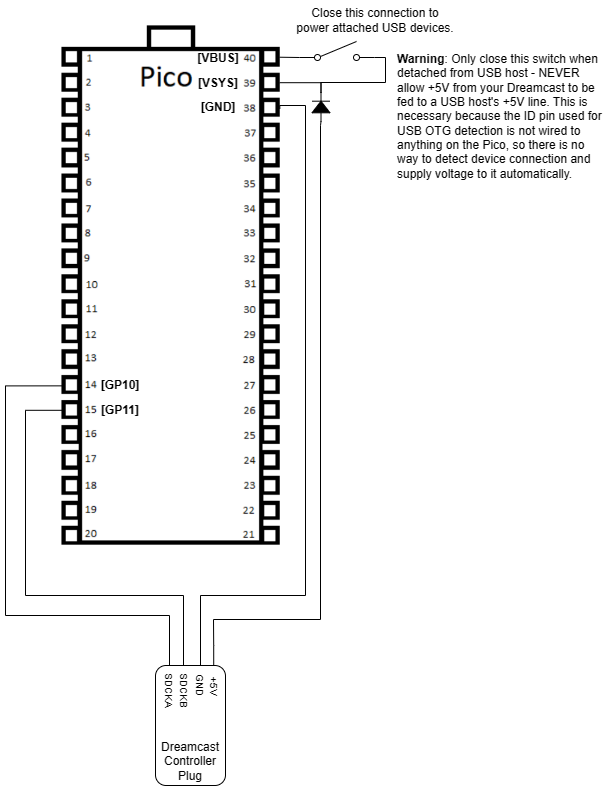
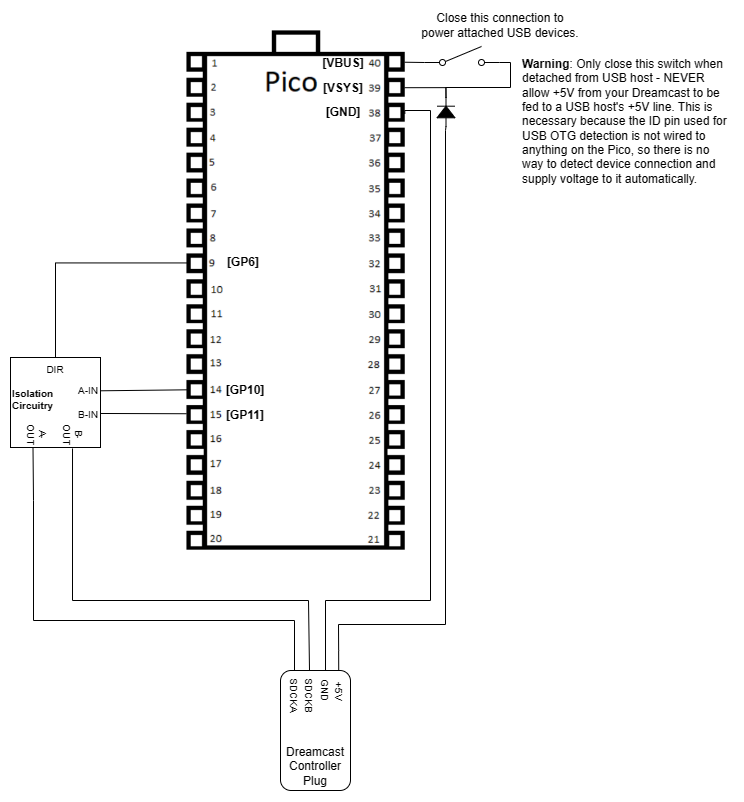
Updated documentation and fixed unit tests

Changed region(s): [[0.0, 0.0, 0.9902, 1.0]]

diff --git a/src/hostLib/test/MainNodeTests.cpp b/src/hostLib/test/MainNodeTests.cpp
@@ -149,11 +149,11 @@ TEST_F(MainNodeTest, successfulInfoRequest)
         .WillOnce(Return(status));
     // Since no peripherals are detected, the main node should do a info request, and it will be successful
     EXPECT_CALL(mMapleBus,
-                write(MaplePacket({.command=COMMAND_DEVICE_INFO_REQUEST,
+                mockWrite(MaplePacket({.command=COMMAND_DEVICE_INFO_REQUEST,
                                   .recipientAddr=0x20},
                                   (const uint32_t*)NULL,
                                   (uint8_t)0),
-                      true))
+                      true, _))
         .Times(1)
         .WillOnce(Return(true));
     // All sub node's task functions will be called with the current time
@@ -180,11 +180,11 @@ TEST_F(MainNodeTest, unsuccessfulInfoRequest)
         .WillOnce(Return(status));
     // Since no peripherals are detected, the main node should do a info request, and it will be unsuccessful
     EXPECT_CALL(mMapleBus,
-                write(MaplePacket({.command=COMMAND_DEVICE_INFO_REQUEST,
+                mockWrite(MaplePacket({.command=COMMAND_DEVICE_INFO_REQUEST,
                                   .recipientAddr=0x20},
                                   (const uint32_t*)NULL,
                                   (uint8_t)0),
-                      true))
+                      true, _))
         .Times(1)
         .WillOnce(Return(false));
     // All sub node's task functions will be called with the current time
@@ -209,7 +209,7 @@ TEST_F(MainNodeTest, peripheralConnect)
         std::make_shared<MockDreamcastPeripheral>(0x20, 0, mDreamcastMainNode.getEndpointTxScheduler(), mPlayerData.playerIndex);
     mDreamcastMainNode.mPeripheralsToAdd.push_back(mockedDreamcastPeripheral);
     // This is a bad way to do it, but I need mCurrentTx in TransmissionTimeliner to be set to something
-    EXPECT_CALL(mMapleBus, write(_, _)).Times(AnyNumber()).WillRepeatedly(Return(true));
+    EXPECT_CALL(mMapleBus, mockWrite(_, _, _)).Times(AnyNumber()).WillRepeatedly(Return(true));
     mDreamcastMainNode.getEndpointTxScheduler()->add(0, &mDreamcastMainNode, 123, (uint32_t*)nullptr, 0, true);
     mDreamcastMainNode.getTransmissionTimeliner().writeTask(0);
 
@@ -240,7 +240,7 @@ TEST_F(MainNodeTest, peripheralConnect)
     EXPECT_CALL(*mDreamcastMainNode.mMockedSubNodes[3], task(1000000)).Times(1);
     EXPECT_CALL(*mDreamcastMainNode.mMockedSubNodes[4], task(1000000)).Times(1);
     // Don't care if write is called
-    EXPECT_CALL(mMapleBus, write(_, _)).Times(AnyNumber());
+    EXPECT_CALL(mMapleBus, mockWrite(_, _, _)).Times(AnyNumber());
 
     // --- TEST EXECUTION ---
     mDreamcastMainNode.task(1000000);
@@ -257,7 +257,7 @@ TEST_F(MainNodeTest, peripheralDisconnect)
         std::make_shared<MockDreamcastPeripheral>(0x20, 0, mDreamcastMainNode.getEndpointTxScheduler(), mPlayerData.playerIndex);
     mDreamcastMainNode.getPeripherals().push_back(mockedDreamcastPeripheral);
     // This is a bad way to do it, but I need mCurrentTx in TransmissionTimeliner to be set to something
-    EXPECT_CALL(mMapleBus, write(_, _)).Times(AnyNumber()).WillRepeatedly(Return(true));
+    EXPECT_CALL(mMapleBus, mockWrite(_, _, _)).Times(AnyNumber()).WillRepeatedly(Return(true));
     mDreamcastMainNode.getEndpointTxScheduler()->add(0, &mDreamcastMainNode, 123, (uint32_t*)nullptr, 0, true);
     mDreamcastMainNode.getTransmissionTimeliner().writeTask(0);
 

diff --git a/src/hostLib/test/mocks/MockMapleBus.hpp b/src/hostLib/test/mocks/MockMapleBus.hpp
@@ -9,14 +9,21 @@
 class MockMapleBus : public MapleBusInterface
 {
     public:
+        virtual bool write(const MaplePacket& packet,
+                           bool autostartRead,
+                           uint64_t readTimeoutUs=MAPLE_RESPONSE_TIMEOUT_US) override
+        {
+            return mockWrite(packet, autostartRead, readTimeoutUs);
+        }
+
         MOCK_METHOD(
             bool,
-            write,
+            mockWrite,
             (
                 const MaplePacket& packet,
-                bool expectResponse
-            ),
-            (override)
+                bool expectResponse,
+                uint64_t readTimeoutUs
+            )
         );
 
         MOCK_METHOD(Status, processEvents, (uint64_t currentTimeUs), (override));

diff --git a/src/hostLib/test/mocks/MockClock.hpp b/src/hostLib/test/mocks/MockClock.hpp
@@ -8,5 +8,5 @@
 class MockClock : public ClockInterface
 {
     public:
-        MOCK_METHOD(uint64_t, getTimeUs, (), (override));
+        MOCK_METHOD(uint64_t, getTimeUs, (), (const, override));
 };

diff --git a/README.md b/README.md
@@ -28,11 +28,7 @@ Luckily, the RP2040 comes with 2 PIO blocks each with 4 separate state machines.
 
 Host mode allows you to connect up to 4 Dreamcast controllers to a PC over USB.
 
-This should be implemented at your own risk! The schematic below provides no protection against static discharge, and the fault protection through fuses should not be completely relied upon. I haven't run into issues in my testing, but there is still risk of damage to your PC USB ports, Pico, Dreamcast peripherals, or Dreamcast.
-
-The Dreamcast uses 36-ohm resistors and small fuses in series between the 8 chip I/O and the 8 controller port I/O. This is only done as a failsafe in case of hardware or software malfunction. In my implementation, I have decided to use lower value, 10-ohm resistors because some resistance is built into the Pico's outputs already. There is some weirdness with plugging in a VMU without a battery installed which gets worse with higher resistor values. I'm also using littelfuse 1/16-amp quick burning fuses, and none of them have blown during my tests. They're mostly optional, but I'd suggest using higher value resistors if they are omitted as a safety measure. Anything higher than 100-ohm starts to cause communication errors though due to capacitances on the I/O.
-
-This is generally the setup I have been testing with:
+This should be implemented at your own risk! There is risk of damage to your PC USB ports, Pico, Dreamcast peripherals, or Dreamcast if circuitry is improperly handled, and I am not liable for any damage that may occur due to use of the following schematic or firmware (see [LICENSE.md](LICENSE.md)).
 
 <p align="center">
   <img src="images/schematic.png?raw=true" alt="Schematic"/>
@@ -48,7 +44,7 @@ For reference, the following is the pinout for the Dreamcast controller port. Ta
 
 Client mode emulates a single controller for use with a Dreamcast. This was added in as an extra feature for this project mainly to demonstrate that the MapleBus library may be used in either direction.
 
-This should be implemented at your own risk! The schematic below provides no protection against static discharge nor provides any fault protection. I haven't run into issues in my testing, but there is still risk of damage to your PC USB ports, Pico, Dreamcast peripherals, or Dreamcast.
+This should be implemented at your own risk! There is risk of damage to your PC USB ports, Pico, Dreamcast peripherals, or Dreamcast if circuitry is improperly handled, and I am not liable for any damage that may occur due to use of the following schematic or firmware (see [LICENSE.md](LICENSE.md)).
 
 <p align="center">
   <img src="images/client-schematic.png?raw=true" alt="Client-Schematic"/>
